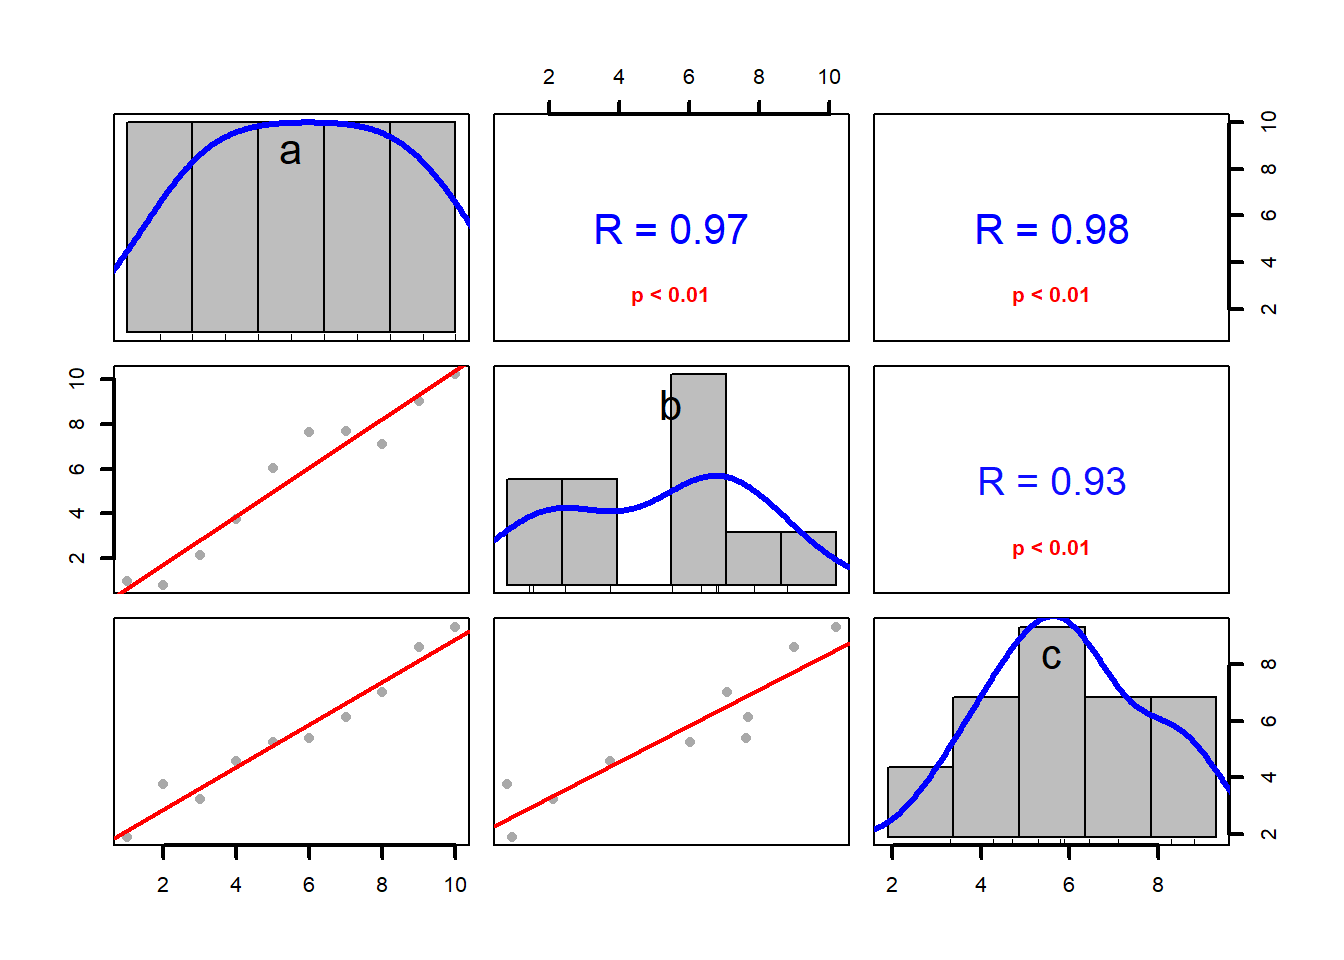
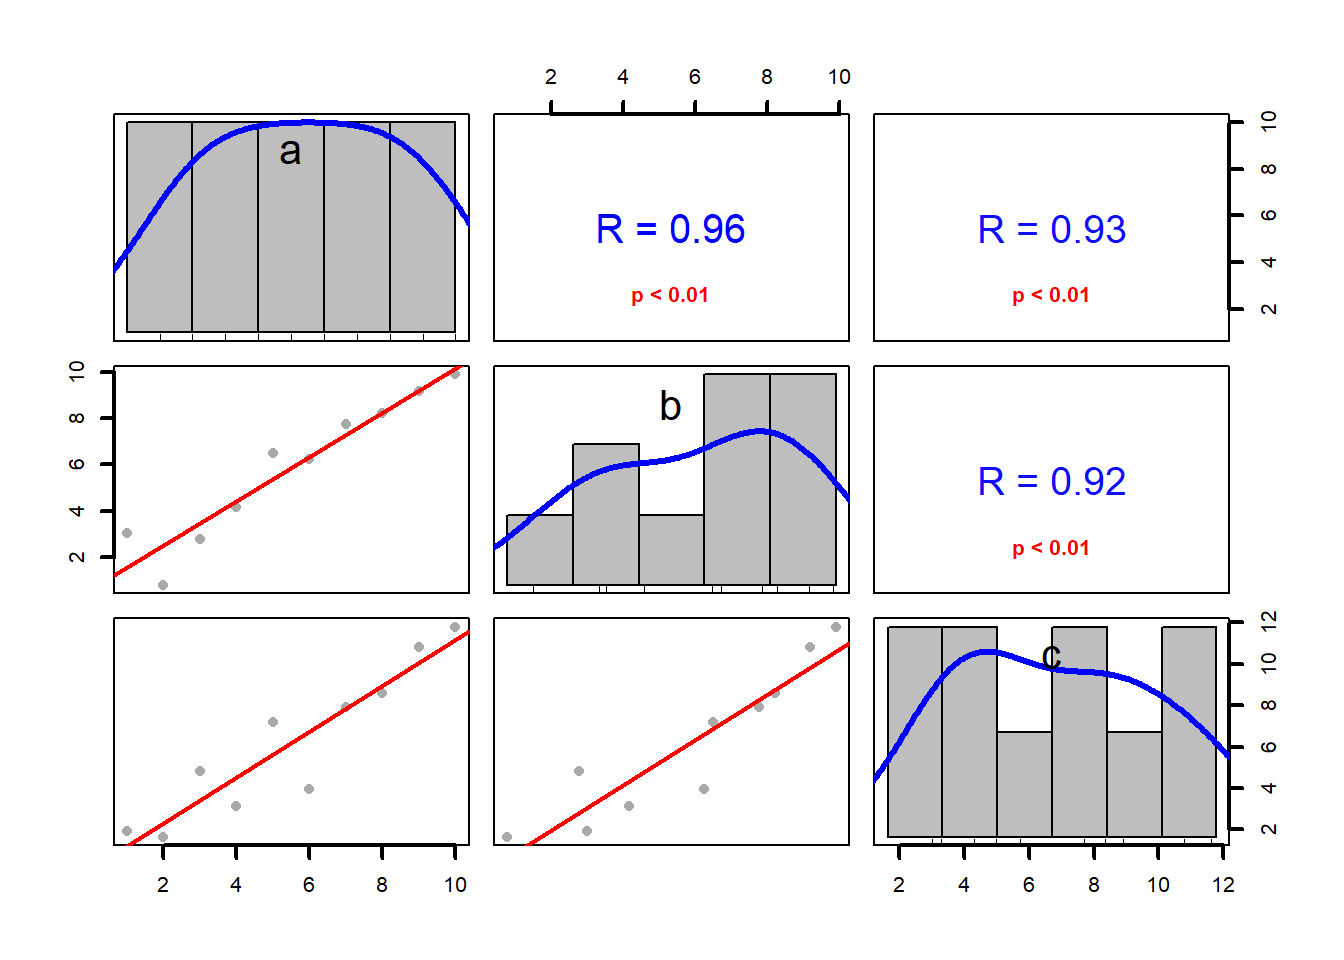
update auto

diff --git a/content/post/2017-06-23-beginr_released.html b/content/post/2017-06-23-beginr_released.html
@@ -54,12 +54,12 @@ y &lt;- 1:10 + rnorm(10)
 beginr::plotlm(x, y)</code></pre>
 <p><img src="/post/2017-06-23-beginr_released_files/figure-html/unnamed-chunk-2-1.png" width="672" /></p>
 <pre><code>## [[1]]
-##               Estimate Std. Error    t value     Pr(&gt;|t|)
-## (Intercept) 0.01379276  0.6612965 0.02085716 0.9838704327
-## x           1.01132436  0.1065776 9.48909165 0.0000125385
+##                Estimate Std. Error     t value     Pr(&gt;|t|)
+## (Intercept) -0.01008393 0.55084383 -0.01830633 9.858428e-01
+## x            0.94114300 0.08877652 10.60126015 5.480082e-06
 ## 
 ## [[2]]
-## [1] 0.918403</code></pre>
+## [1] 0.9335475</code></pre>
 <p>经常需要了解一组数据的分布, 看看是不是正态分布. beginr 里的 <code>plothist()</code> 函数不仅做出直方图和平滑曲线, 并且标出中值, 中位数, 四分位数, 标准偏差, 样本数, 以及用来判断是否正态分布的 skewness 值.</p>
 <pre class="r"><code>x &lt;- rnorm(10000)
 beginr::plothist(x)</code></pre>
@@ -93,20 +93,20 @@ beginr::errorbar(x, y, yupper = 0.1, ylower = 0.1)</code></pre>
 <p>beginr 提供了一些对数据框计算的函数, 例如计算多列数据两两的相关性和线性拟合结果, 可以用 <code>lmdf()</code> 函数.</p>
 <pre class="r"><code>df &lt;- data.frame(a = 1:10, b = 1:10 + rnorm(10), c = 1:10 + rnorm(10))
 beginr::lmdf(df)</code></pre>
-<pre><code>##   x y r.squared adj.r.squared   intercept     slope Std.Error.intercept
-## 1 a b 0.9088409     0.8974461 -0.11134780 1.0188972           0.7078997
-## 2 a c 0.9636391     0.9590940 -0.67169826 1.0528120           0.4486383
-## 3 b a 0.9088409     0.8974461  0.60069535 0.8919849           0.6284547
-## 4 b c 0.8296674     0.8083758  0.09839297 0.9140274           0.9213329
-## 5 c a 0.9636391     0.9590940  0.81479058 0.9153003           0.3755429
-## 6 c b 0.8296674     0.8083758  0.84625478 0.9077052           0.8687154
+<pre><code>##   x y r.squared adj.r.squared  intercept     slope Std.Error.intercept
+## 1 a b 0.9889035     0.9875164  0.1904489 0.9363596           0.2175930
+## 2 a c 0.8773598     0.8620298  0.2961183 1.0099714           0.8283655
+## 3 b a 0.9889035     0.9875164 -0.1401049 1.0561151           0.2367744
+## 4 b c 0.8738930     0.8581296  0.1340746 1.0704924           0.8606584
+## 5 c a 0.8773598     0.8620298  0.4172838 0.8686977           0.7601762
+## 6 c b 0.8738930     0.8581296  0.5640140 0.8163467           0.7258271
 ##   Std.Error.slope t.intercept   t.slope Pr.intercept     Pr.slope
-## 1      0.11408836  -0.1572932  8.930773    0.8789112 1.961290e-05
-## 2      0.07230461  -1.4971933 14.560787    0.1727162 4.850798e-07
-## 3      0.09987769   0.9558292  8.930773    0.3671461 1.961290e-05
-## 4      0.14642360   0.1067942  6.242350    0.9175818 2.477557e-04
-## 5      0.06286063   2.1696339 14.560787    0.0618538 4.850798e-07
-## 6      0.14541081   0.9741451  6.242350    0.3585155 2.477557e-04</code></pre>
+## 1      0.03506828   0.8752528 26.701038    0.4069459 4.164331e-09
+## 2      0.13350318   0.3574731  7.565148    0.7299849 6.514664e-05
+## 3      0.03955333  -0.5917233 26.701038    0.5703750 4.164331e-09
+## 4      0.14377360   0.1557814  7.445682    0.8800645 7.294435e-05
+## 5      0.11482891   0.5489303  7.565148    0.5980359 6.514664e-05
+## 6      0.10964029   0.7770638  7.445682    0.4594793 7.294435e-05</code></pre>
 <p>还有两个函数对<code>tapply()</code>进行了改善, 用来进行因子计算.</p>
 <pre class="r"><code>beginr::tapplydf()
 beginr::tapplydfv()</code></pre>

diff --git a/content/post/2017-06-23-beginr_released.en.html b/content/post/2017-06-23-beginr_released.en.html
@@ -57,12 +57,12 @@ y &lt;- 1:10 + rnorm(10)
 beginr::plotlm(x, y)</code></pre>
 <p><img src="/post/2017-06-23-beginr_released.en_files/figure-html/unnamed-chunk-3-1.png" width="672" /></p>
 <pre><code>## [[1]]
-##              Estimate Std. Error   t value     Pr(&gt;|t|)
-## (Intercept) 0.5268191  0.7542345 0.6984819 5.046701e-01
-## x           0.9154295  0.1215559 7.5309348 6.728083e-05
+##              Estimate Std. Error  t value     Pr(&gt;|t|)
+## (Intercept) 1.4093501 0.58405326 2.413051 4.230633e-02
+## x           0.7498026 0.09412871 7.965716 4.503875e-05
 ## 
 ## [[2]]
-## [1] 0.876381</code></pre>
+## [1] 0.8880377</code></pre>
 <p>If you want to display the distribution of a data-set, use <code>plothist()</code>, which gives you a histogram with markers of the median, mean, quantiles, standard deviation, sample number and the skewness.</p>
 <pre class="r"><code>x &lt;- rnorm(10000)
 beginr::plothist(x)</code></pre>
@@ -97,19 +97,19 @@ beginr::errorbar(x, y, yupper = 0.1, ylower = 0.1)</code></pre>
 <pre class="r"><code>df &lt;- data.frame(a = 1:10, b = 1:10 + rnorm(10), c = 1:10 + rnorm(10))
 beginr::lmdf(df)</code></pre>
 <pre><code>##   x y r.squared adj.r.squared  intercept     slope Std.Error.intercept
-## 1 a b 0.9495201     0.9432101 -1.3817882 1.2029677           0.6084806
-## 2 a c 0.9606706     0.9557544 -0.5940830 1.1673781           0.5181655
-## 3 b a 0.9495201     0.9432101  1.3683054 0.7893147           0.4068186
-## 4 b c 0.9309982     0.9223730  0.9537383 0.9308866           0.5664947
-## 5 c a 0.9606706     0.9557544  0.7052007 0.8229301           0.3977550
-## 6 c b 0.9309982     0.9223730 -0.5926602 1.0001198           0.6504127
+## 1 a b 0.8915396     0.8779821  0.7969791 0.8884589           0.6798107
+## 2 a c 0.9099747     0.8987215  0.2706313 0.9570650           0.6603810
+## 3 b a 0.8915396     0.8779821 -0.2032104 1.0034675           0.7787673
+## 4 b c 0.7334955     0.7001824  0.3444023 0.9131845           1.2247605
+## 5 c a 0.9099747     0.8987215  0.2378239 0.9507971           0.6597516
+## 6 c b 0.7334955     0.7001824  1.2380454 0.8032282           1.0681133
 ##   Std.Error.slope t.intercept  t.slope Pr.intercept     Pr.slope
-## 1      0.09806552  -2.2708831 12.26698  0.052817586 1.812578e-06
-## 2      0.08350993  -1.1465122 13.97891  0.284716094 6.647795e-07
-## 3      0.06434466   3.3634290 12.26698  0.009881394 1.812578e-06
-## 4      0.08959993   1.6835784 10.38937  0.130759951 6.377545e-06
-## 5      0.05886939   1.7729524 13.97891  0.114171098 6.647795e-07
-## 6      0.09626378  -0.9112064 10.38937  0.388817697 6.377545e-06</code></pre>
+## 1       0.1095614   1.1723545 8.109232    0.2747806 3.960159e-05
+## 2       0.1064300   0.4098108 8.992434    0.6926989 1.864611e-05
+## 3       0.1237438  -0.2609386 8.109232    0.8007313 3.960159e-05
+## 4       0.1946109   0.2811997 4.692361    0.7856933 1.556764e-03
+## 5       0.1057330   0.3604750 8.992434    0.7278243 1.864611e-05
+## 6       0.1711778   1.1590956 4.692361    0.2798424 1.556764e-03</code></pre>
 <p>There are two functions as improvements of <code>tapply()</code> for factor calculation.</p>
 <pre class="r"><code>beginr::tapplydf()
 beginr::tapplydfv()</code></pre>

diff --git a/content/post/2019-01-21-pagedown.md b/content/post/2019-01-21-pagedown.md
@@ -95,7 +95,7 @@ categories: []
 
 “佩奇”是个很好的翻译。这两个字很符合儿童的心理，而且跟英文的 piggy 遥相呼应，比“佩帕猪”强多了。
 
-前些天，R 语言的“逆天包”系列之 pagedown 包发布，我随口就把它译作了“佩奇党”：不是吗？page 读起来比 piggy 更“佩奇”。
+前些天，R 语言的“逆天包”系列之 [pagedown](https://github.com/rstudio/pagedown) 包正式诞生，我随口就把它译作了“佩奇党”：不是吗？page 读起来比 piggy 更“佩奇”。
 
 包的作者益辉大概是跟他家小谢看过动画片，他不无担忧地说：
 
@@ -127,7 +127,7 @@ categories: []
 
 还有佩奇化的名片，佩奇化的信件……看架势，佩奇党野心不小，可能将来会把所有类型的网页都佩奇化，直接打印。
 
-这个包的逆天之处在于，虽然它是个 R 包，但是哪怕你连 R 都不懂，竟然都可以使用它。
+佩奇党的[使用说明书](https://pagedown.rbind.io)就是拿它自己做的。这本不长的说明书告诉我们，这个包的逆天之处在于，虽然它是个 R 包，但是哪怕你连 R 都不懂，竟然都可以使用它。
 
 怎么使用呢？
 
@@ -135,6 +135,8 @@ categories: []
 2. 安装 RStudio。正版免费。
 3. 安装 pagedown 包。正版免费。
 4. 打开 RStudio，从模板里创建 R Markdown 文档。
+
+转告你的乡亲们吧：
 
 > 今年过年不一样，
 >
